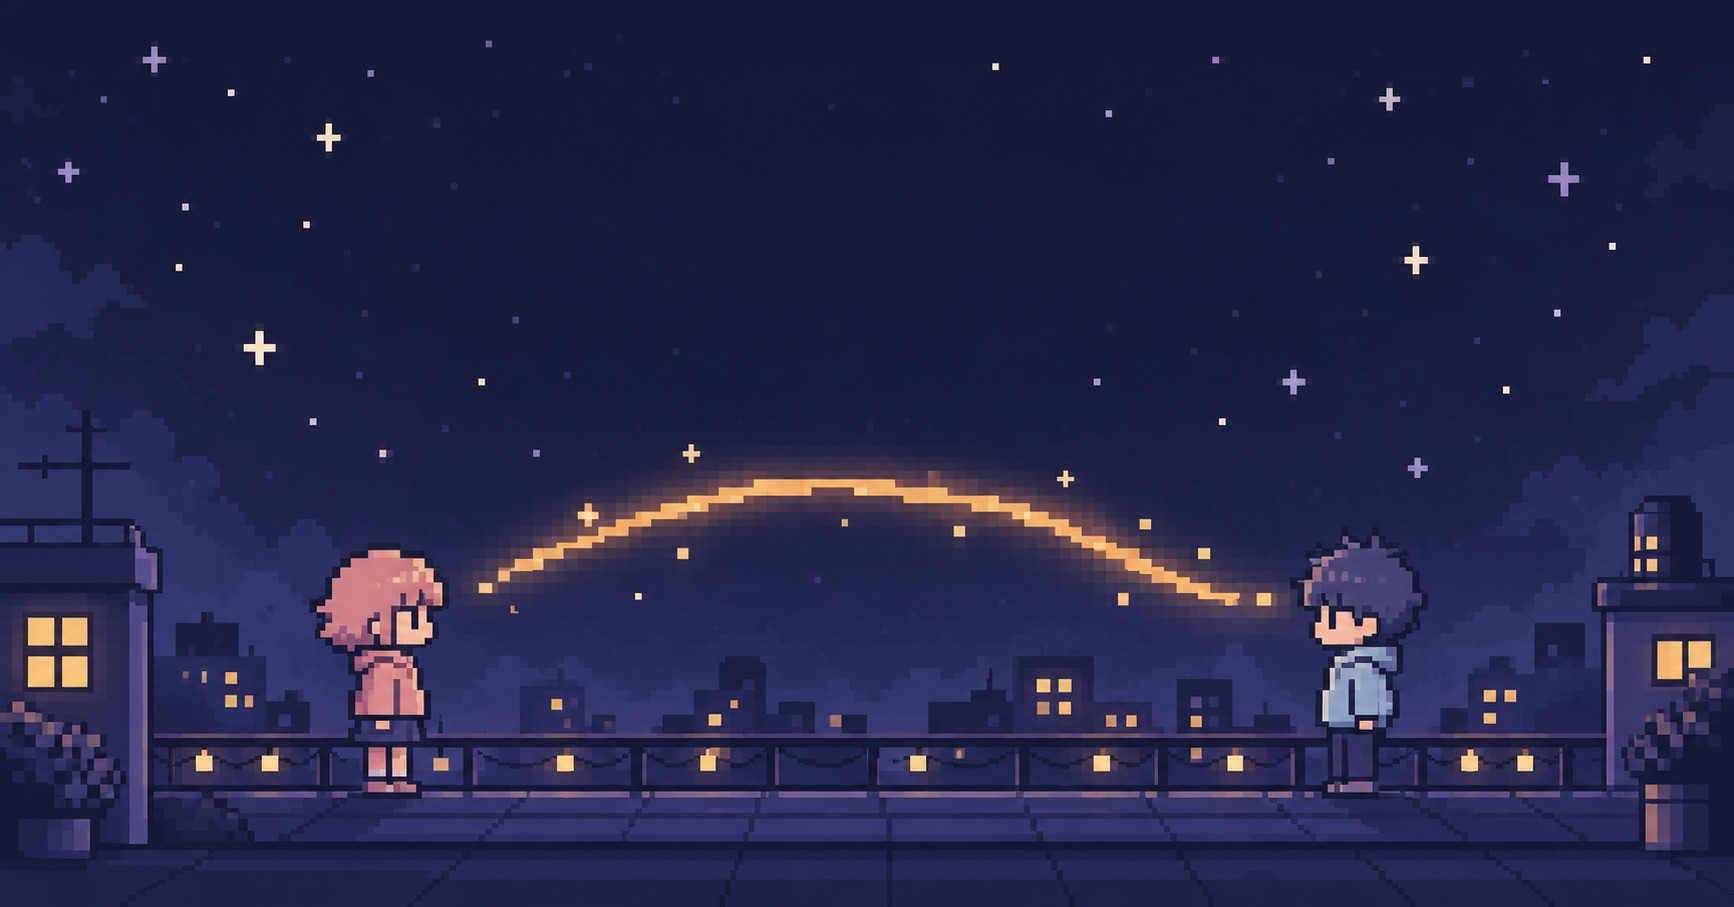
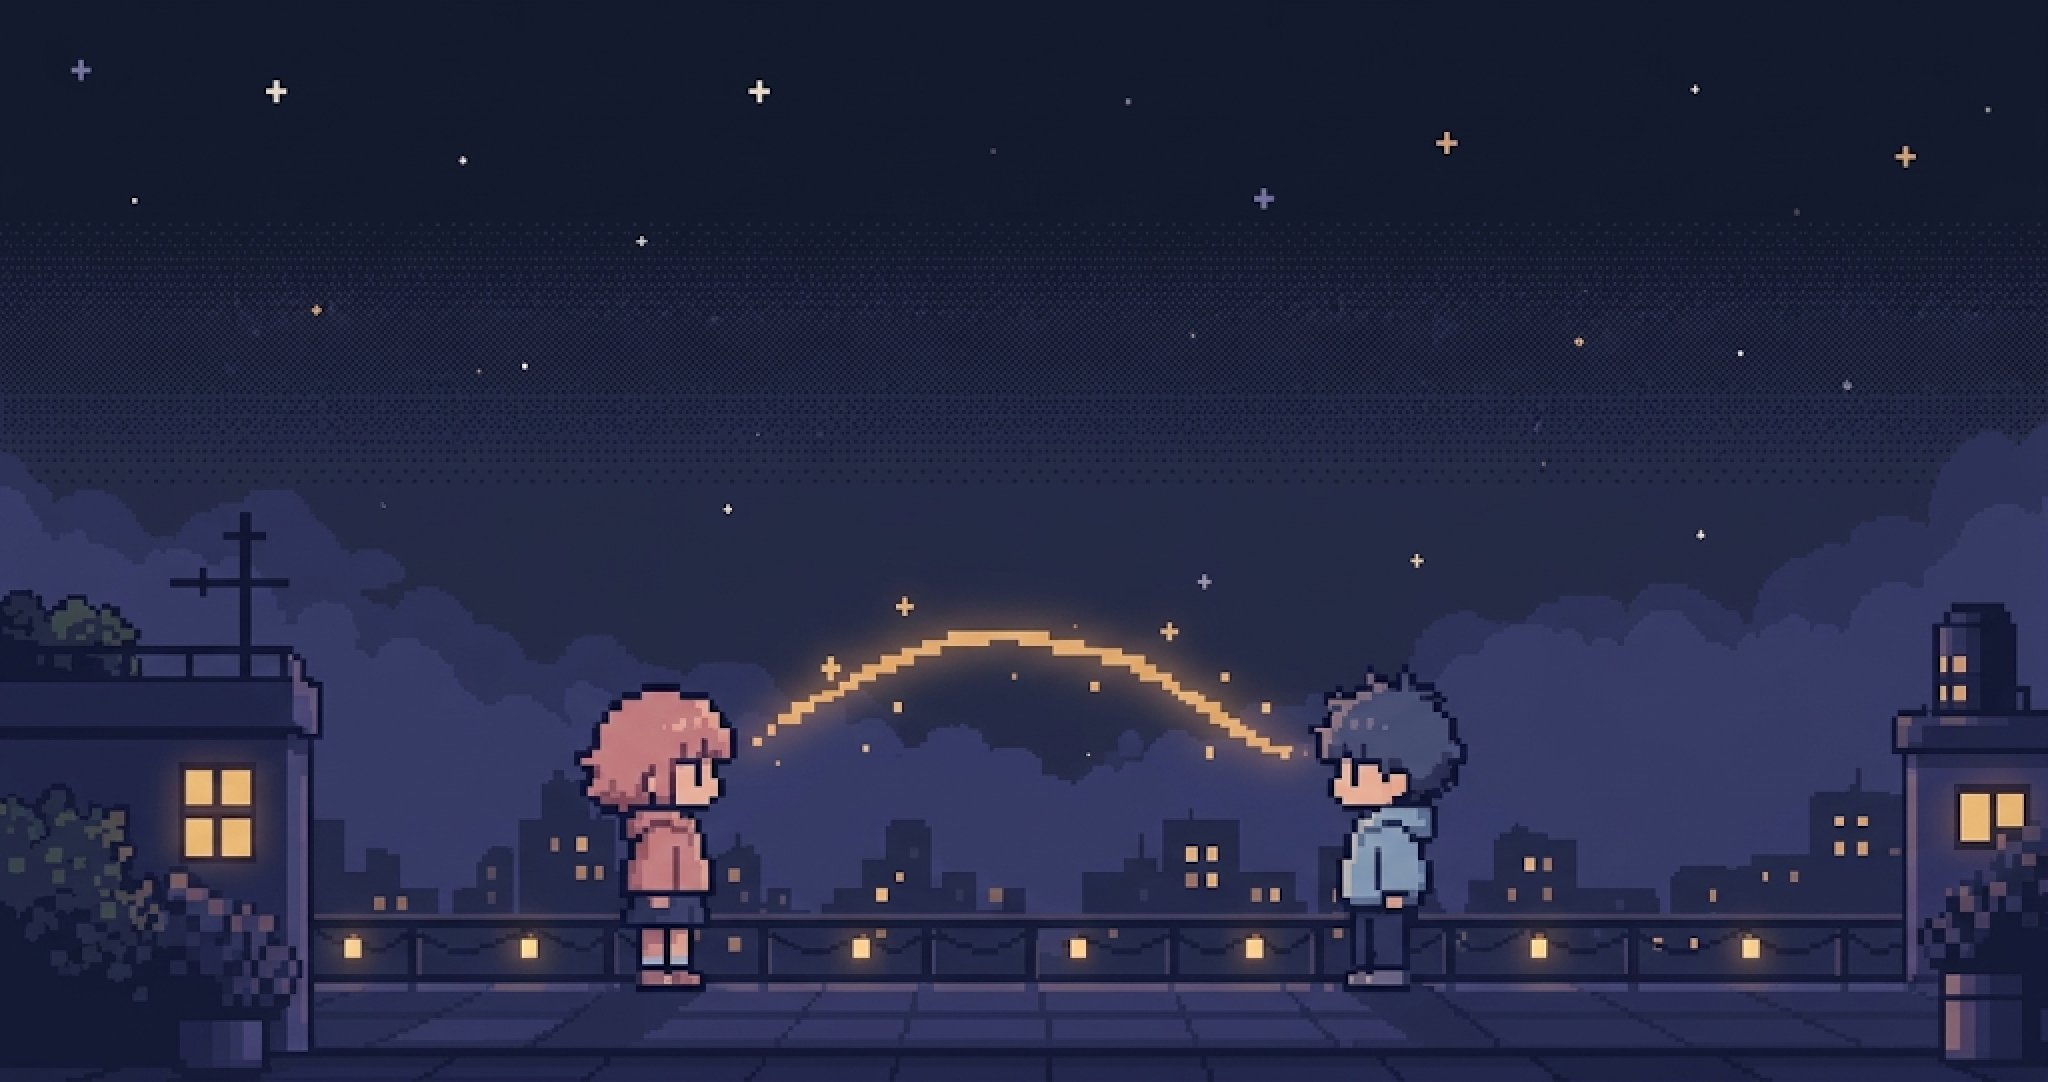
feat(art): v4 wide cover and share image with the locked characters
- cover.jpg 2048x1082 and og.jpg 1200x630 replaced
- og:image:height 630; og:image:alt and title cover alt describe the
  facing pair under the stars
- docs/09 rows updated

diff --git a/index.html b/index.html
@@ -15,8 +15,8 @@
     <meta property="og:description" content="Two hearts. Two perspectives. One story. — เกมเล่าเรื่องสำหรับสองคนที่อยากเข้าใจกันมากขึ้น" />
     <meta property="og:image" content="./brand/og.jpg" />
     <meta property="og:image:width" content="1200" />
-    <meta property="og:image:height" content="628" />
-    <meta property="og:image:alt" content="สองคนยืนห่างกันบนดาดฟ้าใต้ท้องฟ้าเต็มดาว มีทางแสงสีส้มเชื่อมระหว่างกัน" />
+    <meta property="og:image:height" content="630" />
+    <meta property="og:image:alt" content="สองคนยืนหันหน้าเข้าหากันบนดาดฟ้าใต้ท้องฟ้าเต็มดาว มีทางแสงสีส้มเชื่อมระหว่างกัน" />
     <meta name="twitter:card" content="summary_large_image" />
   </head>
   <body>

diff --git a/src/content/th/ui.ts b/src/content/th/ui.ts
@@ -21,7 +21,7 @@ export const ui = {
     about: 'เกี่ยวกับเกมนี้',
     settings: 'ตั้งค่า',
     sceneLabel: 'ท้องฟ้ากลางคืนเต็มไปด้วยดาว ตัวละครสองคนยืนห่างกัน มีทางเรืองแสงเชื่อมระหว่างกัน',
-    coverLabel: 'สองคนยืนห่างกันบนดาดฟ้าใต้ท้องฟ้าเต็มดาว มีทางแสงสีส้มเชื่อมระหว่างกัน',
+    coverLabel: 'สองคนยืนหันหน้าเข้าหากันบนดาดฟ้าใต้ท้องฟ้าเต็มดาว มีทางแสงสีส้มเชื่อมระหว่างกัน',
   },
 
   intro: {

diff --git a/docs/09-asset-specification.md b/docs/09-asset-specification.md
@@ -168,8 +168,8 @@ Self-host ใน `public/fonts/` · `font-display: swap` · ระบุ License
 | favicon | 32×32, 16×16 | PNG (`public/brand/favicon-*.png`) ✅ | P0 |
 | apple-touch-icon | 180×180 | PNG ✅ | P1 |
 | PWA icons | 192, 512 | PNG ✅ (มีไฟล์แล้ว · manifest ยังไม่ทำ — PWA อยู่ใน Backlog) | P2 |
-| og-image | 1200×628 | JPEG `public/brand/og.jpg` ✅ (ภาพหน้าปก ไม่มีข้อมูลผู้เล่น) | P2 |
-| cover | 1734×907 | JPEG `public/brand/cover.jpg` — พื้นหลัง S1 บนจอกว้าง (อัตราส่วน ≥ 4:3) | P1 |
+| og-image | 1200×630 | JPEG `public/brand/og.jpg` ✅ (v4 ภาพหน้าปก ตัวละครแบบล็อกแล้ว ไม่มีข้อมูลผู้เล่น) | P2 |
+| cover | 2048×1082 | JPEG `public/brand/cover.jpg` (v4 ตัวละครแบบล็อกแล้ว ขยาย 2× แบบ nearest-neighbour) — พื้นหลัง S1 บนจอกว้าง (อัตราส่วน ≥ 4:3) · ตัวละครครึ่งล่างที่ ~32% / 68% ของความกว้าง ครึ่งบนว่างไว้ให้ชื่อเกม | P1 |
 | cover-portrait | 1144×2048 | JPEG `public/brand/cover-portrait.jpg` (v3 ตัวละครแบบล็อกแล้ว ขยาย 2× แบบ nearest-neighbour) — พื้นหลัง S1 บนจอแนวตั้ง (ส่วนบนว่างไว้ให้ชื่อเกม ตัวละครอยู่ ~12% ล่าง ที่ ~14–25% / 73–84% ของความกว้าง) · ฉาก canvas `bg_title` ไม่ได้ใช้ที่ S1 แล้ว | P1 |
 | mode cards | 512×512 | PNG โปร่งใส `public/brand/mode-solo.png`, `mode-together.png`, `mode-remote.png` (v3 ตัวละครแบบล็อกแล้ว ทั้งสามใบ) — S2 การ์ดโหมด · วางบนกล่อง navy #171C2F เสมอ (เส้นเข้มบางส่วนโปร่งใส) · ตกแต่ง (`alt=""`) | P1 |
 | waiting | 512×512 | PNG โปร่งใส `public/brand/waiting.png` — สองคนนั่งหันหลังให้กัน: S17 ขณะรอไฟล์ปิดผนึกของคู่ (Phase Waiting, docs/06 S7) และ EmptyState ของ S8 (ยังไม่มีข้อให้เทียบ) · กล่อง navy · ตกแต่ง | P1 |
